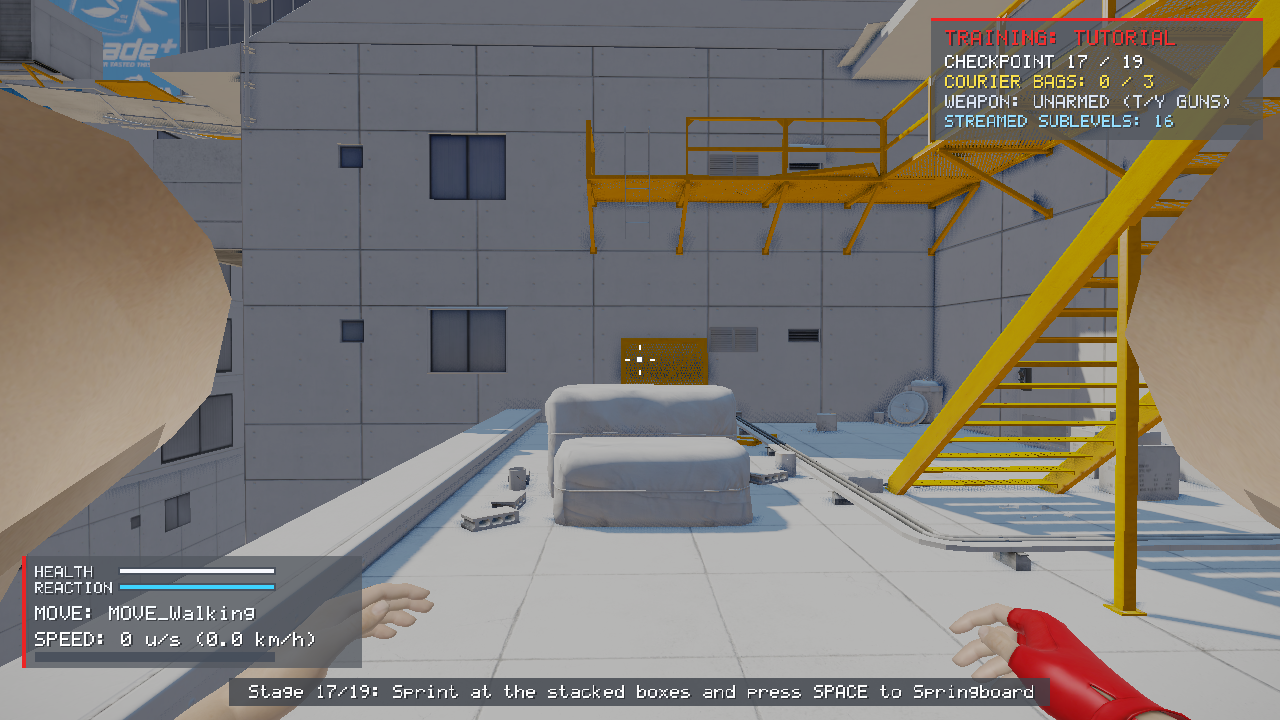
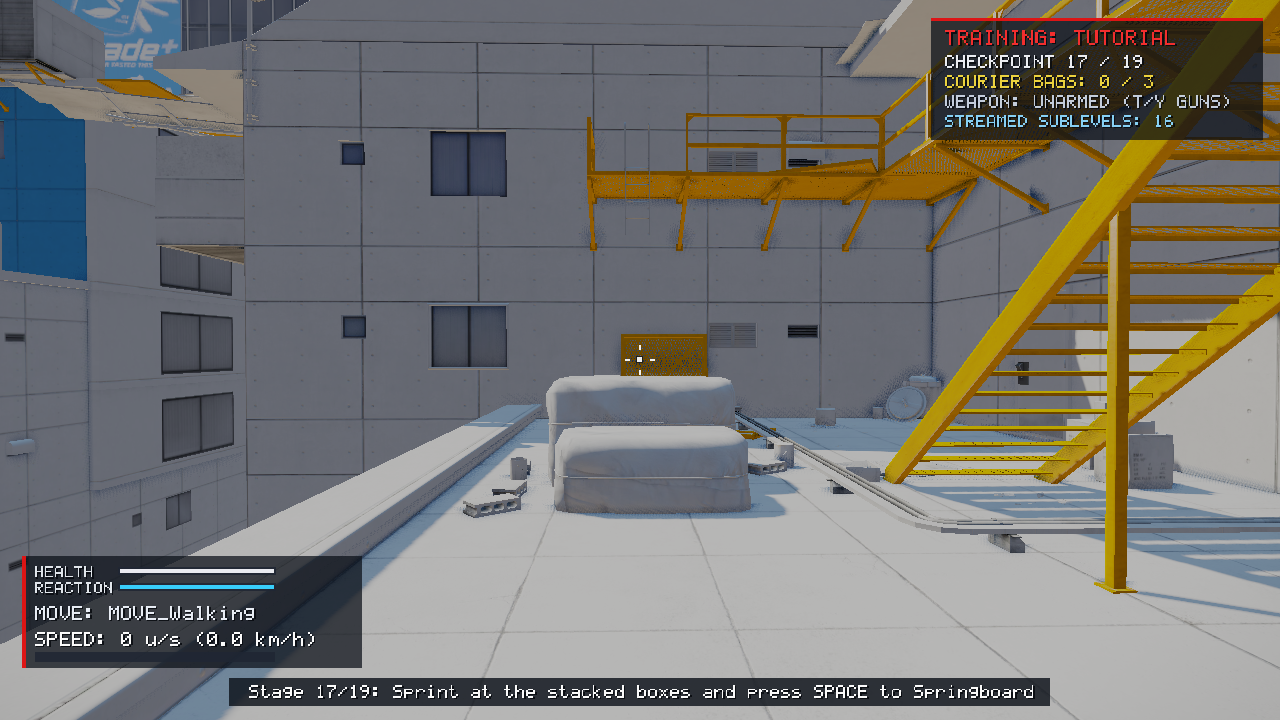
First-person animation, the open issues: armed play through the tree, the swan neck and hips, the walk cycle's phase, ladder look-back and crouched turns
The camera's set-back in a wall run, on a springboard and crouched was the
recorder: a sample's camera is a frame older than its pawn. Paired a frame
apart every move's camera is on the eye.

Regenerates the tracked oracle screenshots from the Windows (Direct3D 11) build.

diff --git a/docs/FIRST_PERSON_ANIMATION_RE.md b/docs/FIRST_PERSON_ANIMATION_RE.md
@@ -104,6 +104,8 @@ MOVE_Jump     [["runfwd", 0.3162, 0.7457], ["JumpSlow", 0.0168, 0.1682], ["JumpL
 
 `JumpSlow` is the custom animation `TdMove_Jump.StartJump` played; `JumpLand` is the Jump child of the state node coming in under it; `runfwd` is the walking state going out. These records are what the port's choice of animation is checked against.
 
+**A sample's camera is one frame older than its pawn.** The hook reads the camera out of the frame being presented and the pawn out of the game as it is by then, so `x y z yaw pitch roll` of sample `i` belong with `px py pz cyaw cpitch anim1p` of sample `i - 1`. Compared sample for sample, the camera looks as if it trails the eye by a frame's travel (10 uu at a wall run's 600 uu/s); paired a frame apart it does not (section 7).
+
 ## 5. Rules measured on the recordings
 
 What the scripts do not say (the nodes are native) was measured on the nine recordings, 80,238 frames.
@@ -112,17 +114,19 @@ What the scripts do not say (the nodes are native) was measured on the nine reco
 
 | state | from |
 | --- | --- |
-| Sneak | the first movement |
+| Sneak | 5 |
 | Walk | 50 |
 | Jog | 260 |
 | Run | 400 |
 | Sprint | 630 |
 
-**The walk cycle.** Every walking, running, crouching, balancing and wall running sequence is in the synch group `Walk` of `MasterSync`. The heaviest member leads at its own rate (its `Rate` x the sequence's `RateScale` x speed / `BaseSpeed`, clamped to `RateMin`..`RateMax`), and every other member sits at the same place in its own cycle, `SynchPosOffset` apart (0.32 for the forward sequences, 0.78 for the backward ones). A member that becomes relevant starts at its `SynchPosOffset` (`TdAnimNodeSequence.OnBecomeRelevant`). `TdPawn.IsLeftLegForward` is the leader being past half its length.
+**The walk cycle.** Every walking, running, crouching, balancing and wall running sequence is in the synch group `Walk` of `MasterSync`. The heaviest member leads at its own rate (its `Rate` x the sequence's `RateScale` x speed / `BaseSpeed`, clamped to `RateMin`..`RateMax`), and every other member sits at the same place in its own cycle, `SynchPosOffset` apart (0.32 for the forward sequences, 0.78 for the backward ones). A member that becomes relevant starts at its `SynchPosOffset` (`TdAnimNodeSequence.OnBecomeRelevant`). `TdPawn.IsLeftLegForward` is the leader being past half its length. The speed in the rate is the frame before's, like the walking state's (to 1 uu/s over 2,900 frames whose frame time is known; this frame's is 3 to 25 uu/s out while she speeds up), and the leader is the heaviest by the frame before's weights.
 
-**The stopping step.** Letting go of the stick while walking plays `walktostandpassleft` or `walktostandpassright` on `Custom_LowerBody`, blending in over 0.1 s and out over the last 0.15 s. It starts on the frame the braking starts, at any speed, so it is the input that triggers it and not the speed. Which one: `right` when the leading walk sequence is between 0.21 and 0.71 of its length: 95 of 101 starts on retail's own cycle.
+**How long a state takes to change.** The walking state node never blends in under 0.2 s. The movement state nodes (`bUseCustomBlend`) take the longer of the two moves' `TdMove.AnimBlendTime`, the one left and the one entered, and never under 0.2 s: Slide and RumpSlide 0.5, Balance 0.4, Crouch 0.25, Falling and the wall runs 0.2, Swing 0.15, Grab 0.1. Measured: 0.4 s on to a beam and off it, 0.2 into a jump, a fall or a wall run and back to the ground.
 
-**Direction.** `TdAnimNodeBlendDirectional` puts the weight on the sideways child in proportion to the angle between the velocity and the facing (45 degrees is half), within the forward three or the backward three; it moves between the two threes over `ForwardInterpTime` 0.4 s and sideways over `DirInterpTime` 0.1 s. The sideways children are the "stiff" runs: `1pAim` (a `TdAnimNodeDirBone`, an aim offset on `Hips` and `Spine`) turns the hips the way she is going, up to the quarter turn its left and right poses hold, and the spine back against them.
+**The stopping step.** Letting go of the stick while walking plays `walktostandpassleft` or `walktostandpassright` on `Custom_LowerBody`, blending in over 0.1 s and out over the last 0.15 s. It starts on the frame the braking starts, at any speed, so it is the input that triggers it and not the speed. Which one: `right` when the leading walk sequence is between 0.21 and 0.71 of its length: 95 of 101 starts on retail's own cycle, and 89 on the port's, which is within a twentieth of retail's at 93 of them.
+
+**Direction (`TdAnimNodeBlendDirectional`).** Its direction is the velocity in the pawn's frame with the two parts scaled to add up to 1 (the package saves one so: 0.639, -0.361). The sideways child takes the sideways part: half at 45 degrees, 0.156 at 10, 0.712 at 68, and never more than 0.9, so straight sideways is 0.9 of the "stiff" run and 0.1 of the plain one. Which three play, forward or backward, is sticky: it changes only once the forward part is more than 0.163 the other way, about 11 degrees past sideways (nine changes: none at 0.1605, the first at 0.1657), and then over `ForwardInterpTime` 0.4 s; sideways moves over `DirInterpTime` 0.1 s. The sideways children are the "stiff" runs: `1pAim` (a `TdAnimNodeDirBone`, an aim offset on `Hips` and `Spine`) turns the hips the way she is going, up to the quarter turn its left and right poses hold, and the spine back against them.
 
 **Landing.** Every landing goes through `TdMove_Landing.StartMove`. An ordinary one is `LandNormal(GetLandingAmount())` and straight back to walking: `Amount = clamp((fall - 300) / 230, 0.2, 1)`, 0.7 out of a coil, 0.85 for a springboard. It sets `LandNode.Landed` (the dip of the eye and `SpineX`, section 7) and activates the `LandingRun` custom blend: `FallingLandMedium` over the run at `Amount` for `0.6 x Amount` seconds, 0.15 s in and 0.4 s out.
 
@@ -132,11 +136,11 @@ What the scripts do not say (the nodes are native) was measured on the nine reco
 
 **Hanging (`TdAnimNodeGrabbing`).** With `d` the view's yaw off the body's and `T` the move's `CurrentGrabTurnType` (0 none, 1 the turn's start, 3 turned, 2 the turn's end): turned past a quarter turn with `T` 2 or 3, the idle of that side shows at once, shared with its "extreme" by how far past, `(|d| - 90) / 90`; with `T` 0 or 1 the node goes back to `Hang` (`HangFree` hanging free: `SetActiveMove` from the script) over 0.2 s; in between it stays as it is. It starts on the hang whenever it regains weight. All 777 frames in which the node has weight fit to 0.005.
 
-**Climbing (`TdAnimNodeClimb`).** The child is the slide while she slides (`bClimbDownFast`), else the still pose of the hand `bClimbLeftHand` says, of the ladder's or the pipe's set; a change blends over 0.2 s. All 580 frames fit to 0.009. The look-back idles never show in the recordings (the furthest she looks round on a ladder is 77 degrees).
+**Climbing (`TdAnimNodeClimb`).** The child is the slide while she slides (`bClimbDownFast`), else the still pose of the hand `bClimbLeftHand` says, of the ladder's or the pipe's set; a change blends over 0.2 s. All 580 frames fit to 0.009. Looking back past a quarter turn (`TdMove_Climb.StartTurningAngle`) the look idle of that side takes over, and gives way again under it, over the same 0.2 s: on at 90.2 to 92.8 degrees in a recording made for it (`2_ladder_look`, 99.1% of its frames).
 
 **The swing (`TdAnimNodeSwing`).** By the move's `SwingAngle` alone, with nothing smoothing it: with `a = clamp(angle / 90 degrees, -1, 1)`, Front `max(a, 0)`, back `max(-a, 0)`, Middle `1 - |a|`. The crossfader under Middle stays at its saved 0.2556 and the camera-bone mask at 0.8013. Three swings, 2,143 frames, every leaf to 0.005. The angle is positive ahead of the bar; the pawn's centre is on a circle of radius 120 (`SwingPendulumLength`) about it, to 0.001.
 
-**Standing turns (`TdAnimNodeTurn`).** The legs keep their own yaw. Moving, it comes round to the way she is going (the other way going backward). Standing, it stays while the view turns, never more than 90 degrees behind it; once the view is more than 65 degrees (`ExtendedRegionLimit`) off the legs the quarter-turn step of that side plays, bringing the legs round 90 degrees over its 0.8 s whatever the view does meanwhile, blending in and out over 0.2 s. The 45 degree steps are never chosen in 76 turns. Taking the first turn of a standing stretch as given, the rule makes 27 of the 30 that follow, on the right side and within three frames. How fast the legs come round while she moves is a rough fit (2.4 degrees a second for each uu/s). The standing legs' aim offset (`bAimSourceIsLegRotation`) twists the hips by how far the legs are off the body, whole at 18 degrees (its `HorizontalRange` 0.2 of a quarter turn).
+**Standing turns (`TdAnimNodeTurn`).** The legs keep their own yaw. Moving, it comes round to the way she is going (the other way going backward). Standing, it stays while the view turns, never more than 90 degrees behind it; once the view is more than 65 degrees (`ExtendedRegionLimit`) off the legs the quarter-turn step of that side plays, bringing the legs round 90 degrees over its 0.8 s whatever the view does meanwhile, blending in and out over 0.2 s. The 45 degree steps are never chosen in 76 turns. Taking the first turn of a standing stretch as given, the rule makes 27 of the 30 that follow, on the right side and within three frames. How fast the legs come round while she moves is a rough fit (2.4 degrees a second for each uu/s). The standing legs' aim offset (`bAimSourceIsLegRotation`) twists the hips by how far the legs are off the body, whole at 18 degrees (its `HorizontalRange` 0.2 of a quarter turn). Crouched, the node under `crouchstill` follows the same rule with the crouch-turn sequences (a recording made for both, `1_turn_in_place`: 97.1% of its frames).
 
 **Not listed by the recorder:** what plays on the `Custom_Camera` and `Custom_Canned` slots (`gethitfront`, the wall run impacts, `CrouchIntoStand`, the level intros). Their names appear in no recording; the port plays them and leaves them out of what it compares.
 
@@ -144,7 +148,7 @@ What the scripts do not say (the nodes are native) was measured on the nine reco
 
 `PlayMoveAnim(Slot, Name, Rate, BlendIn, BlendOut)` is `TdPawn.PlayCustomAnim` without looping. Blend times in seconds; a blend-out of 0 or less holds the last frame until something else takes the slot. `TdPawn.OnAnimEnd` calls the current move's `OnCustomAnimEnd` only for an animation that move started.
 
-Where a move picks between animations by what it found in the level, the controller says which (`PlayerTelemetry::move_anim`, section 8) and the director plays it the way this table says.
+Where a move picks between animations by what it found in the level, the controller says which (`PlayerTelemetry::move_anim`, section 9) and the director plays it the way this table says.
 
 | move | calls |
 | --- | --- |
@@ -165,9 +169,9 @@ Where a move picks between animations by what it found in the level, the control
 | SkillRoll / SoftLanding | `fallinglandroll` with root motion (0.2 / 0.2), state 1 after 0.2; state 25 and `fallinglandintosoftlanding` looping (0.6 in) |
 | Swing / SwingJump | `SwingHardStart(Wide)` (0.15 / 0.2), `Swing180` (0.2 / 0.3), `SwingJumpOff`, `SwingEnd` (0.2 / 0.2); state 60, cleared after 0.3, `SwingOff` |
 | IntoClimb | `PlayStartAnimation`: from a wall run or a transfer `{Pipe,Ladder}ClimbHangStart{Left,Right}` (0.15 / 0.25); falling faster than 800 `...HangStartHard`, than 200 `...HangStart` (0.1 / 0.25); else, on a pipe, `PipeClimbStart` (0.15 / 0.25); always state 21 after 0.15. From the top: `LadderEnterTop` (0.25 / 0.1) |
-| Climb | a step at a time (`HandleClimbAction`, `Climb`): `{Pipe,Ladder}ClimbUp{Left,Right}Hand` on `FullBody` (0.1 / 0.075), the left hand's first, `bClimbLeftHand` turning over 0.1 s into each step; a pipe with more than one rung left uses `PipeClimbUpFast...`, two rungs to the animation. The move flies each 32 uu rung at 96 uu/s (ladder) or 64 (pipe), so a step lasts as long as its animation and the next one starts when it arrives. Down is the slide (the tree's node); stepping down, the same animations at -1, is in the script and in no recording. Over the top: `...ExitTop{Right,Left}Hand` with root motion (0.1 / 0.1), state 1 after 0.5. Letting go: `PipeExitBottom` (0.1 / 0.4) |
+| Climb | a step at a time (`HandleClimbAction`, `Climb`): `{Pipe,Ladder}ClimbUp{Left,Right}Hand` on `FullBody` (0.1 / 0.075), the left hand's first, `bClimbLeftHand` turning over 0.1 s into each step; a pipe with more than one rung left uses `PipeClimbUpFast...`, two rungs to the animation. The move flies each 32 uu rung at 96 uu/s (ladder) or 64 (pipe), so a step lasts as long as its animation and the next one starts when it arrives. Down is the slide (`bClimbDownFast`: the stick right back, more than four rungs up; the tree's node shows it) or, near the bottom, a step down: the other hand's up animation at -1. Over the top: `...ExitTop{Right,Left}Hand` with root motion (0.1 / 0.1), state 1 after 0.5. Letting go: `PipeExitBottom` (0.1 / 0.4) |
 | IntoZipLine / ZipLine | `ZiplineStart` (0.2 / 0.4), state 27 after 0.2; letting go `SwingJumpOff` (0.2 / 0.2); `ziplinehitwall` (0.1 / 0.2) |
-| Slide / RumpSlide | `UpperBody` out over 0.1, state 1 then cleared after 0.4, `CrouchSlide` (0.4 / 0.4); stop over 0.2 and `CrouchSlideToCrouch` (0.1 / 0.2) into a crouch; `crouchslideintoend45` (0.15 / 0.2) |
+| Slide / RumpSlide | `UpperBody` out over 0.1, state 1 then cleared after 0.4, `CrouchSlide` (0.4 / 0.4); stop over 0.2 and `CrouchSlideToCrouch` (0.1 / 0.2), whatever she does next; `crouchslideintoend45` (0.15 / 0.2) |
 | Crouch | start: `FullBody_Dir` and `LowerBody` out over 0.25; stop: `CrouchIntoStand` on `Camera` (0.2 / 0.2) |
 | Coil | state 15, `JumpCoil` (0.15 / 0.15); stop `JumpCoilEnd` (0.25 / 0.35) |
 | 180Turn | `RunTurn180` or `StandTurn180Right` (0.2 / 0.2); in the air `JumpTurnFly` (0.1 / 0.1) |
@@ -185,7 +189,8 @@ Where a move picks between animations by what it found in the level, the control
 - **Position.** The eye of the port's pose, against the capsule centre retail logged, is retail's camera with one constant: the mesh's origin is 94 below the capsule centre (4 below the feet; 65 when crouched, with the shorter capsule). Standing, the difference is that constant with no spread at all; through the moves the median stays within 3 uu of it. Standing, the camera is 64 to 65 above the capsule centre, about 155 above the feet. It is **not** `BaseEyeHeight` 76 above the centre.
 - **Rotation.** `GetCameraAnimation` (native) is `FMatrix::Rotator` of the `CameraJoint` bone, the eye's child, in the mesh's space. The mesh's axes are +X left, -Y up, +Z forward, so the rotator's roll is the view's pitch, its pitch the view's yaw and its yaw the view's roll, which is the swizzle `CalcCamera` does. Read this way the pitch runs on past straight down, which is how the skill roll turns the view right over. Retail's camera minus the controller's view is that turn to within a degree at the median, in every move recorded. The wall run's tilt (17.8 degrees) is all animation: the controller's view has no roll.
 - **The landing dip.** `LandNode` (`TdAnimNodeLandOffset`) is an `AnimNodeAimOffset` whose one pose, `jumplandpose`, turns `SpineX` and the `EyeJoint` and moves the eye 8.25 in the mesh's space. Against retail's camera through four landings its strength goes to `Landed` in 0.1 s and back in 0.3 (the node's `LandOut` says 0.4): the view dips 3 degrees and the port's follows it to a tenth of a degree.
-- **The swan neck.** Looking down past `SwanNeckEnableAtPitch` (15 degrees) `SwanNeck1p.GetSwanNeckPos` cranes the camera forward and down off the eye, so that she sees her feet and not her chest. Measured standing still at five pitches: with `a = 90 degrees x (pitch - 15) / 75`, forward `20.1 sin a + 4.1 (1 - cos a)` and down `18.6 (1 - cos a)`: 24.2 and 18.6 looking straight down (`TdMove`'s defaults are `SwanNeckForward` 35 and `SwanNeckDown` 30; how the node gets from those to what it does is not established).
+- **The swan neck.** Looking down past `SwanNeckEnableAtPitch` `SwanNeck1p.GetSwanNeckPos` cranes the camera forward and down off the eye, so that she sees her feet and not her chest. `TdSwanNeck`, decompiled: with `P` the pitch below level in Unreal units, `thr = int(Start x 182.044)` and `t = (P - thr) / (17385 - thr)`, forward is `Forward x t x cos(t pi / 4)` and down `Down x t x sin(t pi / 4)`, which looking straight down is 24.3 and 18.7 with the defaults (measured standing still in retail: 24.2 and 18.6). What it returns follows that with `T += (wanted - T) x min(1, dt / 0.07)`. Each move has its own three numbers: 15 degrees, 35 and 30 by default; hanging 0, 70, 30; a ladder forward 40; lying on the ground and the turn in the air none at all; the skill roll none from 0.2 s in.
+- **The hips.** `SetHipsOffset` moves the hips and legs, not the eye, so that the craned camera has something under it: running (walking state above Walk) back by four times the swan neck's forward, 20 at most; crouched, by how far the view is off the legs, 25 forward and 30 sideways at a quarter turn (and nothing for 0.3 s after a slide).
 - **Field of view.** `Mesh1p.FOV` is 90, horizontal, whatever the world's is.
 - **The root.** `IgnoreRootTransformation` takes the root bone from the notify carriers, not from what is playing, so no animation moves the mesh off the pawn; root motion (`UseRootMotion`) moves the pawn instead.
 
@@ -195,23 +200,50 @@ With those, the body is where retail has it. Below is retail looking straight do
 
 Nothing in the tree turns the unarmed arms with the view. Standing, they hang at her sides and are out of sight until she looks nearly straight down; running, the wrists reach about 42 degrees under the horizon at the top of the swing, so with a 90 degree view at 16:9 (29 degrees from the centre to the bottom edge) the hands show when she looks a little down and not when she looks at the horizon. A retail frame of a run at 446 uu/s looking 35 degrees down has no arm in it, and neither does the port's pose for that frame.
 
-Retail's camera sits further back than the eye in a few moves, by a steady amount the tree does not account for: 10 uu in a wall run, 9 on a springboard, 4 to 5 crouched or sliding. Where that comes from is not established.
+Retail's camera looked further back than the eye in a few moves (10 uu in a wall run, 9 on a springboard, 4 to 5 crouched or sliding). That was the recorder: a sample's camera is a frame older than its pawn (section 4), so it trails by the speed over the frame rate. Paired a frame apart, every move's camera is on the eye (the table in section 9).
+
+Retail (left) and the port's window (right), standing, looking down at about 76 degrees and straight down (`build/re/fpanim/fpshot.py --look`, which turns the port's view with its look keys, I J K L):
+
+![Retail and the port looking down](../screenshots/fp/look_down_retail_vs_port.png)
 
 **Where the moves put the mesh.** Two things move the whole mesh against the pawn without being in the pose, so they move the camera and leave the body's place in the view alone:
 
-- `TdPawn.SetRootOffset`: the swing lifts the mesh 50 and sets it back 32 (`vect(0, -50, -32)` in the root bone's space, over 0.15 s, off over 0.1), the rump slide lifts it 20, a crouch out of a walk lifts it 15 for 0.15 s while the capsule drops; `TdMove.StopMove` takes any of them off over 0.3 s.
+- `TdPawn.SetRootOffset`: the swing lifts the mesh 50 and sets it back 32 (`vect(0, -50, -32)` in the root bone's space, over 0.15 s, off over 0.1), the rump slide lifts it 20, a crouch out of a walk lifts it 15 for 0.15 s while the capsule drops; a hang with the legs on the wall pushes it 1 toward the wall over 0.3 s; `TdMove.StopMove` takes any of them off over 0.3 s.
 - `TdMove_Swing.SetPawnRotation`: the swing control turns the body by the swing's angle about a point 94 above the mesh's origin, which is the capsule's centre.
 
-With both, the port's eye through 2,118 frames of swinging is retail's camera to 3 uu and 3 degrees (10th to 90th percentile), where without them it was 131 uu and 69 degrees out.
+With both, the port's eye through 2,118 frames of swinging is retail's camera to 0.1 uu and under a tenth of a degree (10th to 90th percentile), where without them it was 131 uu and 69 degrees out.
 
-## 8. The port
+## 8. With a weapon
+
+None of this could be measured: no retail recording has a weapon in hand (section 10). It is what the scripts and the packages say, run through the same tree.
+
+**The sequences.** `TdPawn.UpdateAnimSets` fills `Mesh1p.AnimSets`: `[0]` stays `AS_C1P_Unarmed`, `[1]` is the common armed set (`AS_C1P_OneHanded_Common` for a light weapon, `AS_C1P_TwoHanded_Common` for a heavy one) and `[2]` the weapon's own `AnimationSetCharacter1p`. A node's sequence name is looked up in the weapon's set first, then the common one, then the unarmed one, so with a weapon the same tree plays the armed `walkfwd`, `Stand` and the rest wherever a set has one. The armed sets carry 82 bone tracks to the unarmed set's 74 (the weapon bones).
+
+**The weapon state** (`TdPawn.WeaponAnimState`: 0 unarmed, 1 relaxed, 2 ready, 3 reloading, 4 throwing away, 5 heavy, 6 holstering):
+
+| when | what |
+| --- | --- |
+| a weapon comes to hand | `unholster` on `CannedUpperBody` (in at once, out over 0.2), state 2 |
+| firing | `StopCustomAnim(Weapon, 0)`, `standfire` on `Weapon` (0.1 in, no blend out), state 2 |
+| reloading | the weapon's reload on `Weapon` (0.2 / 0.2), state 3 |
+| throwing it away | `throwaway` on `CannedUpperBody` (0.1 in), state 4 |
+| `UpdateWeaponAnimState` | a light weapon goes from ready to relaxed after 5 s and 1,000 uu of travel (`AmountTilUnarmed`); a heavy one stays up |
+
+`TdAnimNodeWeaponState` maps relaxed, unarmed and heavy to the main tree and everything else to its default child, the ready stances (`standready`, `walkfwdready`, `runfwdready`); it blends over 0.3 s to ready and 2.0 s back. Ready, a pistol is up in the lower right of the view; relaxed, the arm swings with the run and the gun is out of sight.
+
+**The arm.** `ArmedRight` lays the weapon branch over `SpineXRight` and what hangs from it; a heavy weapon adds `ArmedLeft` for the other arm. `TdAnimNodeWeaponPoseOffset` holds a profile of bones for each weapon ("OneHanded-Colt1911", "TwoHanded-G36C" ...): on those bones the pose is offset by the difference between the weapon's own `weaponpose` and the common set's, which is what fits the same stance to each grip. Two light weapons also nudge the right shoulder (`OneHandedRightShoulderTranslationOffset`: the Beretta (0, 0.80, -1.43), the TMP (0, 4, -1)).
+
+**The aim.** `TdSkelControlAim1p` on `SpineXRight` and `SpineXLeft` turns the armed arm with the view. It is native. The port turns those bones by the view's pitch, one for one, about the mesh's sideways axis, by how far the weapon is at the ready: it keeps the gun on the crosshair, and it is not checked against retail.
+
+
+## 9. The port
 
 | file | what |
 | --- | --- |
-| `src/anim/fp_anim.*` | `fp::AnimTree`: `AT_C1P` loaded from the package and ticked: node weights and blend times, the state nodes (movement, walking, hanging, climbing, swing, standing turn, balance, direction), the slots (`play_custom_anim` / `stop_custom_anim`), the synch group, the custom blend, the aim offsets' strengths |
-| `src/anim/fp_director.*` | `fp::Director`: the walking state, each move's calls from section 6, the forced animation state and its timer, the landing, the stopping step, the climb's steps, the shimmy and the look back while hanging, the blows, the root offset and the swing's turn |
-| `src/anim/fp_pose.*` | `fp::PoseEvaluator`: the bones the tree's weights make (list and slot blends, per-bone masks from `Child2PerBoneWeight`, aim offsets over their range), and `view()`: the camera of section 7 |
-| `src/anim/anim_system.cpp` | `tick_first_person` runs the tree once per simulated time from the controller's telemetry. `player_camera` puts the world camera on the tree's eye in play. `evaluate_faith_1p` draws the tree's pose from that eye: the whole body unarmed, the legs under the hand-posed arms with a weapon |
+| `src/anim/fp_anim.*` | `fp::AnimTree`: `AT_C1P` loaded from the package and ticked: node weights and blend times, the state nodes (movement, walking, weapon, hanging, climbing, swing, standing and crouched turn, balance, direction), the slots (`play_custom_anim` / `stop_custom_anim`), the synch group, the custom blend, the aim offsets' strengths; sequence names looked up through the layered sets |
+| `src/anim/fp_director.*` | `fp::Director`: the walking state, each move's calls from section 6, the forced animation state and its timer, the landing, the stopping step, the climb's steps, the shimmy and the look back while hanging, the blows, the weapon state, the swan neck and the hips offset, the root offset and the swing's turn |
+| `src/anim/fp_pose.*` | `fp::PoseEvaluator`: the bones the tree's weights make (list and slot blends, per-bone masks from `Child2PerBoneWeight`, aim offsets over their range, the weapon's grip offsets, the armed arm's turn), and `view()`: the camera of section 7 |
+| `src/anim/anim_system.cpp` | `tick_first_person` runs the tree once per simulated time from the controller's telemetry. `player_camera` puts the world camera on the tree's eye in play. `evaluate_faith_1p` draws the tree's pose from that eye, armed or not; only the disarm (`MOVE_Snatch`) still lays its own arms over the tree's legs |
 | `src/physics/parkour_controller.cpp` | says what its moves chose (below) |
 | `src/tools/anim_main.cpp` | `me_anim`: the tree over a recorded retail run, headless; `--eye` writes the camera, `--bones` where bones are in it |
 | `tools/retail/anim_check.py` | lays what `me_anim` plays next to retail's `anim1p` records and scores it |
@@ -230,43 +262,52 @@ What the controller tells the animation, in `PlayerTelemetry`:
 
 | | frames | same lead sequence | weight in common |
 | --- | --- | --- | --- |
-| all | 80,238 | 95.8% | 95.4% |
-| Walking | 63,877 | 96.1% | 95.8% |
+| all | 80,238 | 96.7% | 96.8% |
+| Walking | 63,877 | 97.2% | 97.6% |
 | Swing | 2,226 | 99.9% | 99.9% |
-| Falling | 2,104 | 82.6% | 84.2% |
+| Falling | 2,104 | 82.5% | 84.3% |
 | Grabbing | 2,037 | 90.5% | 89.1% |
-| VaultOver | 1,891 | 96.2% | 95.7% |
-| Jump | 1,583 | 96.3% | 96.4% |
-| Climb | 1,333 | 97.6% | 97.2% |
-| WallRunning left / right | 810 | 95.6% / 98.0% | 95.3% / 95.5% |
-| GrabPullUp | 471 | 96.6% | 96.7% |
-| Balance | 427 | 97.2% | 67.5% |
+| VaultOver | 1,891 | 96.5% | 96.3% |
+| Jump | 1,583 | 96.1% | 96.3% |
+| Climb | 1,333 | 97.7% | 97.5% |
+| FallingUncontrolled | 1,085 | 99.4% | 99.4% |
+| WallRunning left / right | 810 | 95.6% / 98.7% | 95.3% / 98.4% |
+| GrabPullUp | 471 | 97.2% | 97.0% |
+| Balance | 427 | 97.9% | 68.5% |
 | SpringBoarding | 416 | 100% | 99.9% |
-| ZipLine, Landing, Slide, WallRunJump, SwingJump | 1,010 | 100% | 99.4% to 99.9% |
+| ZipLine, Landing, Slide, WallRunJump, SwingJump | 1,010 | 100% | 99.6% to 99.9% |
+| WallClimbing | 169 | 89.9% | 89.1% |
 | IntoGrab | 113 | 68.1% | 76.2% |
+| Crouch | 106 | 95.3% | 93.3% |
 
 A recording has the pawn but not the level or the stick, so the check gives the director what the controller gives it in the game, taken from the recording itself: the height above the ground from where the fall ends; the swing's angle from where she is on the arc; pipe or ladder, the vault, catch and heave variants and the long jump's gap from the names of what retail went on to play; the stick's release from the stopping step it plays. The hints never say when or how an animation plays, except the release. `--no-hints` runs without them. The climb's steps, the shimmy, the turns and the hang's look back are not hinted: they come out of the pawn's movement and view by the rules above.
 
-The camera, by `build/re/fpanim/eyecheck.py` on a recording (`20260925_160622`), retail minus port, median and (10th to 90th percentile spread); 94 is the mesh's origin under the capsule's centre:
+The camera, by `build/re/fpanim/eyecheck.py` on a recording (`20260925_160622`), retail's camera against the port's eye a frame earlier (section 4), retail minus port, median and (10th to 90th percentile spread); 94 is the mesh's origin under the capsule's centre, 65 with the crouched capsule:
 
 | move | frames | forward | up | pitch | roll |
 | --- | --- | --- | --- | --- | --- |
-| Walking | 2,138 | -1.8 (15.3) | -94.0 (7.5) | 0.0 (0.5) | 0.0 (1.5) |
-| Climb | 243 | 0.0 (1.6) | -94.2 (2.2) | 0.0 (0.6) | 0.0 (0.3) |
-| Grabbing | 146 | 1.0 (0.8) | -94.0 (0.8) | 0.1 (7.2) | 0.0 (1.4) |
-| VaultOver | 108 | -2.6 (4.9) | -94.3 (11.6) | -0.3 (1.9) | 0.0 (0.8) |
-| GrabPullUp | 94 | 0.0 (1.6) | -94.5 (3.6) | 0.1 (3.2) | 0.0 (1.1) |
-| WallRunning left | 87 | -10.1 (10.7) | -94.5 (8.4) | 0.0 (2.3) | 0.0 (1.5) |
-| Swing (`20260926_164012`) | 2,118 | 0.0 (2.9) | -94.0 (2.6) | 0.0 (3.1) | 0.0 (0.0) |
+| Walking | 2,138 | 0.0 (0.9) | -94.0 (2.2) | 0.0 (0.2) | 0.0 (1.3) |
+| Climb | 243 | 0.0 (0.7) | -94.0 (2.7) | 0.0 (0.9) | 0.0 (0.4) |
+| Falling | 176 | 0.0 (23.7) | -98.0 (15.6) | 0.0 (1.2) | 0.0 (0.5) |
+| Jump | 157 | 0.0 (11.3) | -94.0 (10.1) | 0.0 (3.8) | 0.0 (1.0) |
+| Grabbing | 146 | 0.0 (0.1) | -94.0 (0.2) | 0.0 (6.7) | 0.0 (1.4) |
+| VaultOver | 108 | 0.0 (1.0) | -94.1 (1.8) | 0.0 (1.1) | 0.0 (0.5) |
+| GrabPullUp | 94 | 0.4 (1.4) | -93.5 (2.1) | 0.3 (2.1) | 0.1 (1.1) |
+| WallRunning left | 87 | 0.0 (9.8) | -94.0 (5.6) | 0.0 (1.1) | 0.0 (0.8) |
+| SpringBoarding | 83 | 0.1 (6.6) | -94.0 (9.1) | 0.2 (5.0) | 0.1 (1.2) |
+| Slide | 61 | 0.0 (6.7) | -65.0 (2.8) | 0.0 (0.6) | 0.0 (0.0) |
+| Crouch | 52 | 0.0 (0.9) | -65.0 (0.5) | 0.0 (0.0) | 0.0 (0.0) |
+| Swing (`20260926_164012`) | 2,118 | 0.0 (0.1) | -94.0 (0.1) | 0.0 (0.0) | 0.0 (0.0) |
 
-## 9. Not done, and not established
+## 10. Not done, and not established
 
-- **Armed arms.** With a weapon the legs, the body's place and the camera are the tree's, but the arms and the gun are still the hand-picked weapon poses held to the view (`evaluate_faith_1p`). Retail lays the weapon branch over the arm bones (`ArmedRight`, `ArmedLeft`) and turns them with the view by `TdSkelControlAim1p`, which is native; there is no retail recording with a weapon in hand to measure it against.
-- **The skeletal controls** other than the root offset and the swing control are not run: the lazy springs, limb IK (the hands on a sloped ledge), foot placement.
-- **Nodes without a recording:** the ladder's look-back idles, the ledge slope children (`hang45...`), hanging free beyond its start, the crouched turn, `AgainstWallState`, the balance's lose-balance poses. The balance's lean is driven by the controller's own lean, which no recording checks (the low "weight in common" for Balance above).
-- **The camera's place in a few moves.** Retail's sits further back than the eye by a steady amount the tree does not account for: 10 uu in a wall run, 9 on a springboard, 4 to 5 crouched or sliding.
+- **A weapon in hand has no retail recording**, and neither has the balance beam's lean or its lose-balance poses. Both were attempted for this pass and stopped at a Steam prompt on launch that is the owner's to answer, not a capture script's. So section 8 is the scripts run, not retail measured: the aim control above all (`TdSkelControlAim1p` is native; the port's one-for-one pitch turn is a stand-in), then the blend back from `standfire`, and the shoulder offsets' axes. The balance's lean is driven by the controller's own lean, which nothing checks (the low "weight in common" for Balance above), and the lose-balance poses are not played.
+- **The skeletal controls** other than the root offset, the hips offset, the swing control and the armed arm's turn are not run: the lazy springs, limb IK (the hands on a sloped ledge), foot placement.
+- **Nodes without a recording:** the ledge slope children (`hang45...`), hanging free beyond its start, `AgainstWallState`.
+- **The camera against walls.** `CheckForCameraCollision` and the mesh's `OffsetMeshXY` are not run.
+- **The camera's spread in the air.** The medians are on the eye, but a fall out of a walk, a jump and a wall run spread 10 to 24 uu forward in the table above; one stretch of falling sits about 15 back. Not established.
 - **Falls that end on a ledge.** `CloseToGround` lets the jump animation go before a ledge catch too; a recording does not say how far the ledge was, so the check holds the jump animation too long there (the IntoGrab and Falling rows). In the game the controller's trace decides it.
-- **The walk cycle's phase** is ahead of retail's by more than a twentieth of a cycle at a third of the stops, which picks the other leg for the stopping step in 23 of 101 (the rule itself misses 6 on retail's own cycle).
+- **The stopping step's leg** is the other one in 12 of 101 stops (the rule itself misses 6 on retail's own cycle): the port's walk cycle is more than a twentieth of a cycle off retail's at 8 of them.
 - **A pipe's last rung** is climbed with the fast animation in the game; retail uses the plain one when a single rung is left.
-- **In the game, not checked on screen:** the mouse cannot be driven in the windowed tests, so everything that depends on the view's pitch or on looking round (the body looking down, the hang's look back, the standing turn) is checked through `me_anim` against the recordings and against retail's frames, not by eye in the running port.
-- The tracked `screenshots/oracle_*.png` are Metal renders from before this work and still show the old arms and camera.
+- **On screen**, the port's window has been compared with retail looking down (section 7) and looked at armed and in a melee; the hang's look back and the turns are checked through `me_anim` against the recordings, not by eye in the running port.
+- The tracked `screenshots/oracle_*.png` and `tutorial_*.png` are the Windows (Direct3D 11) build's, from `--verify-all`.

diff --git a/tools/retail/README.md b/tools/retail/README.md
@@ -45,6 +45,7 @@ python -m tools.retail.intro_check compare
 
 * `intro_capture` restarts the game once per chapter and points `[URL] Map` / `LocalMap` of your `TdEngine.ini` at it for each launch, putting them back at the end. It copies the save folder first and compares it afterwards. Do not run it while something else is driving the game.
 * A camera position in any retail trace is 10 uu ahead of the eye, along the view direction: the hook solves it out of the view-projection, whose depth column carries the near plane. `intro_check` takes it out; anything else that compares camera positions has to as well.
+* A sample's camera fields (`x y z yaw pitch roll`) are one frame older than its pawn fields (`px py pz`, `cyaw cpitch`, `anim1p`): the hook reads the camera out of the frame being presented and the pawn out of the game as it is by then. Sample for sample the camera seems to trail the pawn by a frame's travel (10 uu at 600 uu/s); pair camera `i` with pawn `i - 1`.
 * For about six seconds at the start of a chapter the trace's yaw and pitch read 0 and 90, and no sound is logged for the first second or so.
 
 ## 2. Replay
